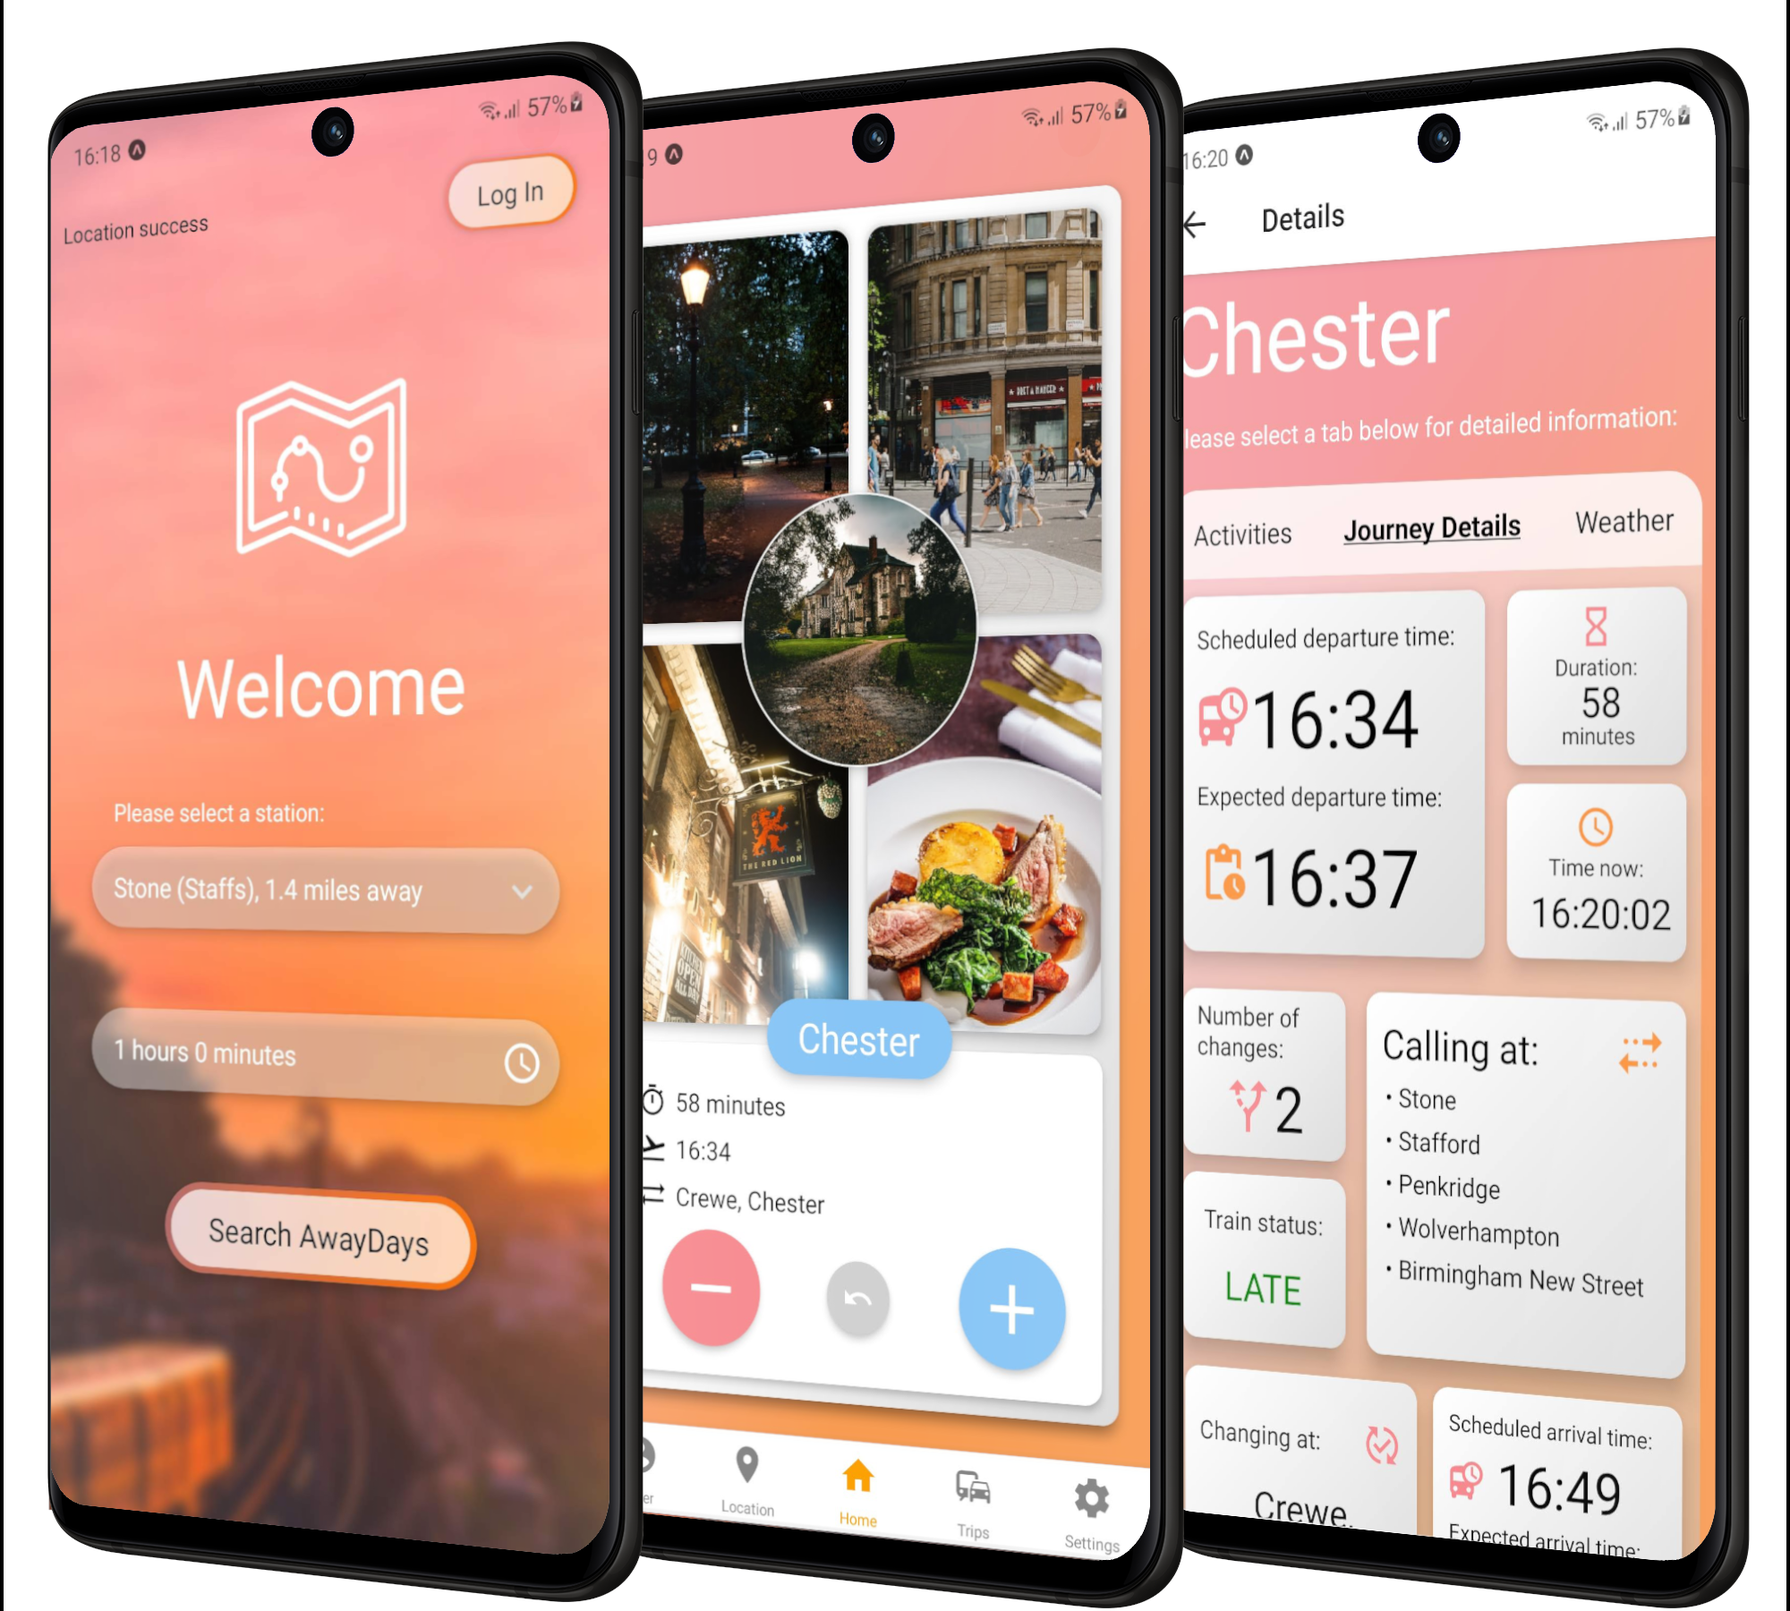
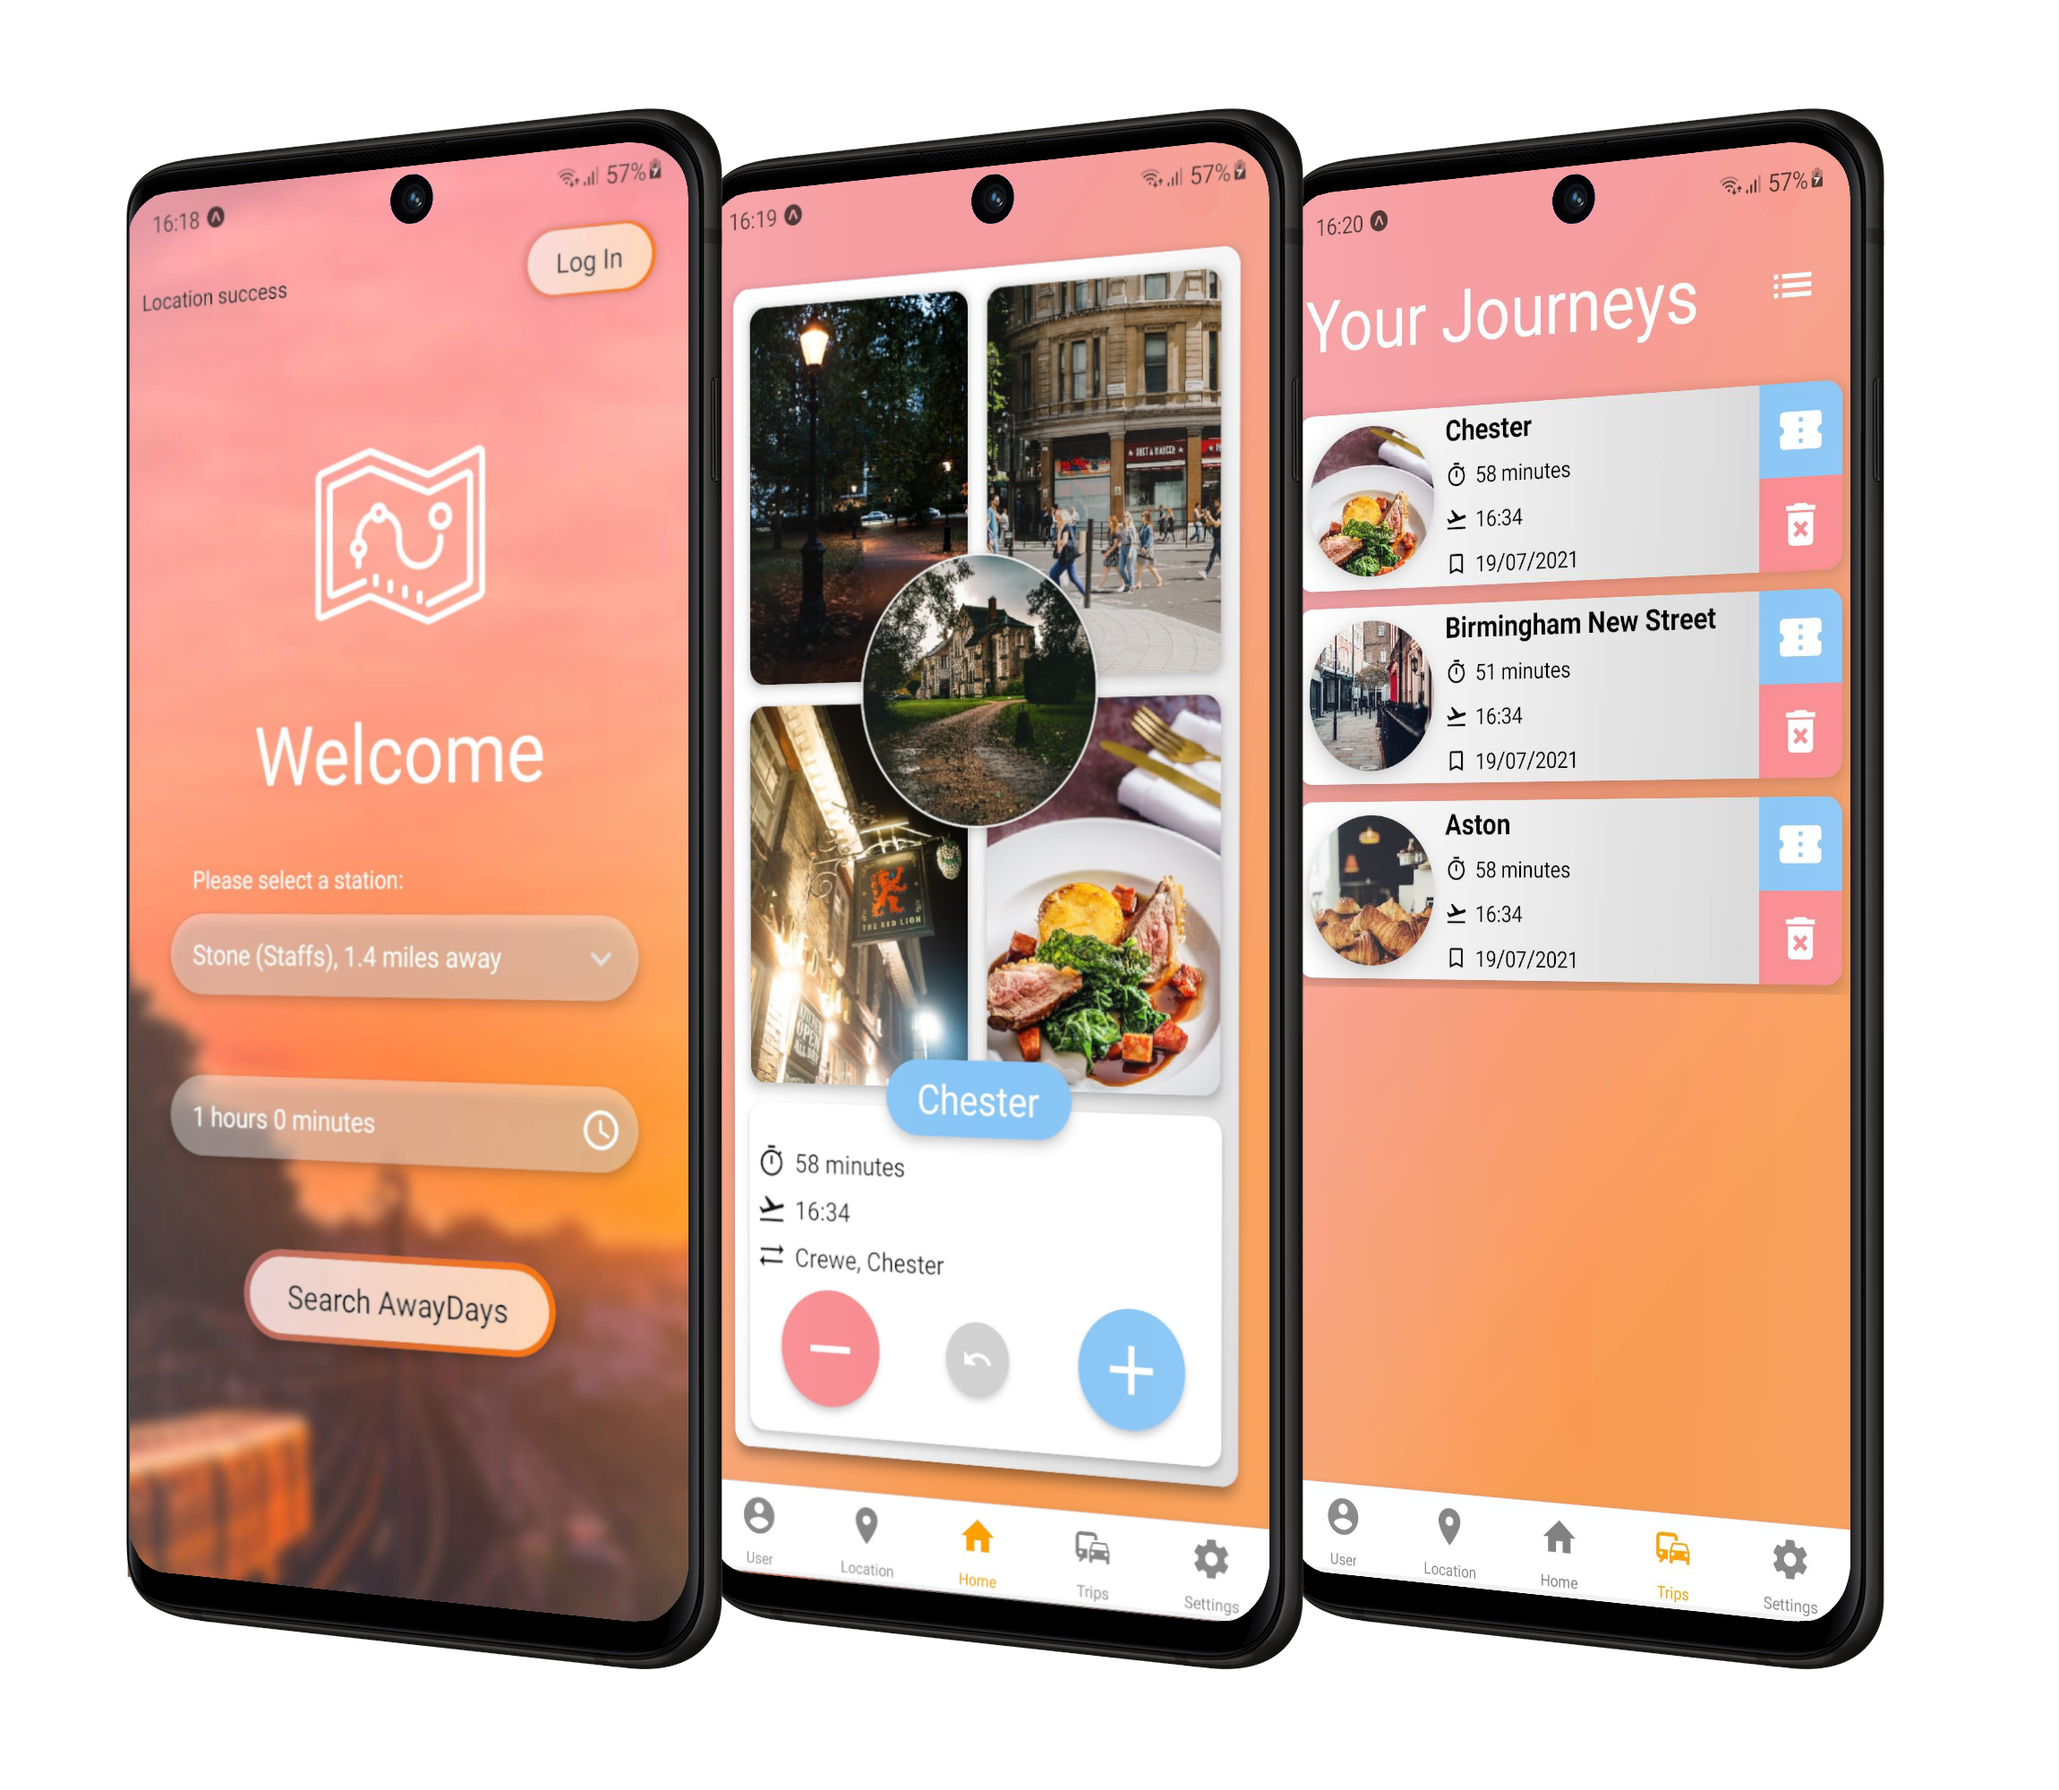
Fix: fixed app multi screenshots

diff --git a/readme.md b/readme.md
@@ -28,14 +28,13 @@ Welcome to AwayDays, a brand new native application to help you select a day out
 
 ## 📸 Images
 
-<div align="center">
 
 
 
 
 <img src="https://github.com/TheNoshman/DaysAway/blob/main/assets/app-photos/firstthree.png?raw=true" height="550"/>
-</div>
-<img src="https://github.com/TheNoshman/DaysAway/blob/main/assets/app-photos/screen3.jpg?raw=true" height="550"/><img src="https://github.com/TheNoshman/DaysAway/blob/main/assets/app-photos/screen4.jpg?raw=true" height="550"/><img src="https://github.com/TheNoshman/DaysAway/blob/main/assets/app-photos/screen5.jpg?raw=true" height="550"/>
+
+<img src="https://github.com/TheNoshman/DaysAway/blob/main/assets/app-photos/secondthree.png?raw=true" height="550"/>
 
 
 ---
